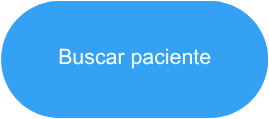
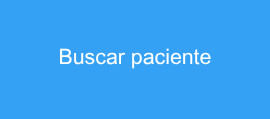
Add files via upload

Changed region(s): [[0.0, 0.0, 1.0, 1.0], [0.2379, 0.4034, 0.803, 0.5798], [0.2082, 0.4286, 0.2379, 0.4538]]

diff --git a/index.html b/index.html
@@ -16,7 +16,7 @@
             </a>
         
         <div id="botoes">
-            <a href="agendamento.html" id="btn_agendamento"><img src="imagens/botao agendamento.jpg" alt=""></a><br>
+            <a href="agendamento.html" id="btn_agendamento"><img src="imagens/botao agendar.jpg" alt=""></a><br>
             <a href="remarcar.html" id="btn_remarcar"><img src="imagens/botao remarcar.jpg" alt=""></a> <br>
             <a href="buscar.html" id="btn_buscar"><img src="imagens/botao busca.jpg" alt=""></a>
         </div>

diff --git a/estilos/style2.css b/estilos/style2.css
@@ -36,6 +36,18 @@ div#botoes{
 div#botoes a {
     display: block;
     margin-bottom: 10px;
+    
+}
+
+div#botoes img{
+    border-radius: 20px;
+}
+
+div#botoes img:hover{
+    border: 2px solid rgba(252, 101, 126, 0.705);
+    transform: translate(-3px, -3px);
+    box-shadow: 5px 5px 10px rgba(0, 0, 0, 0.600);
+    transition: transform .3s, border .3s;
 }
 
 h1{
